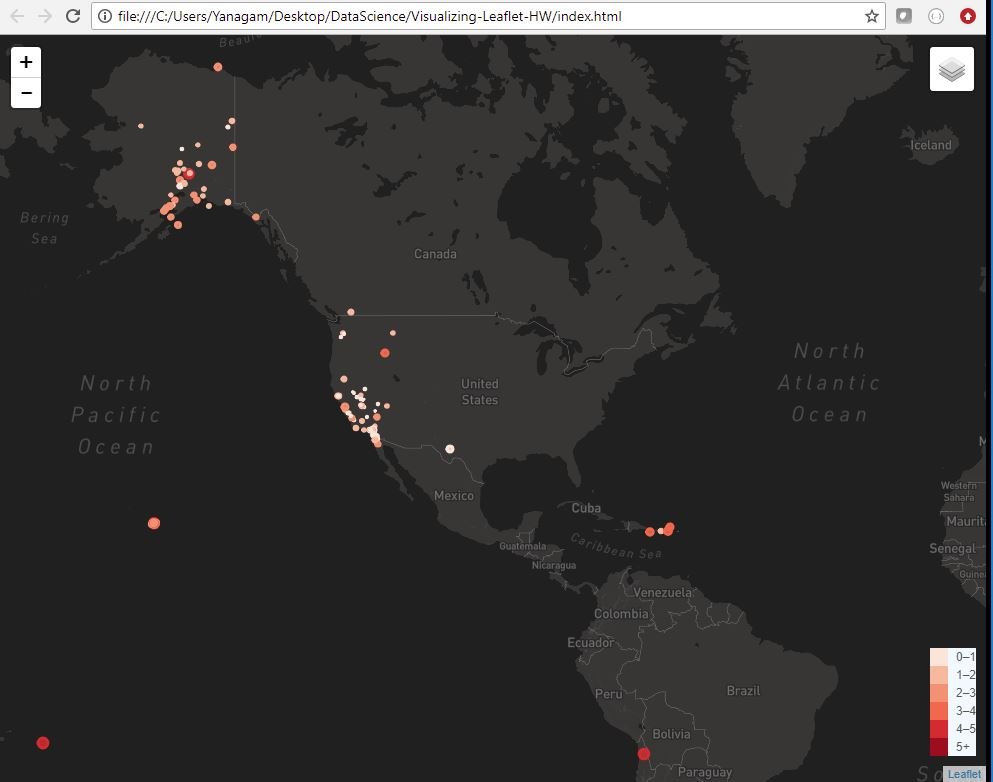
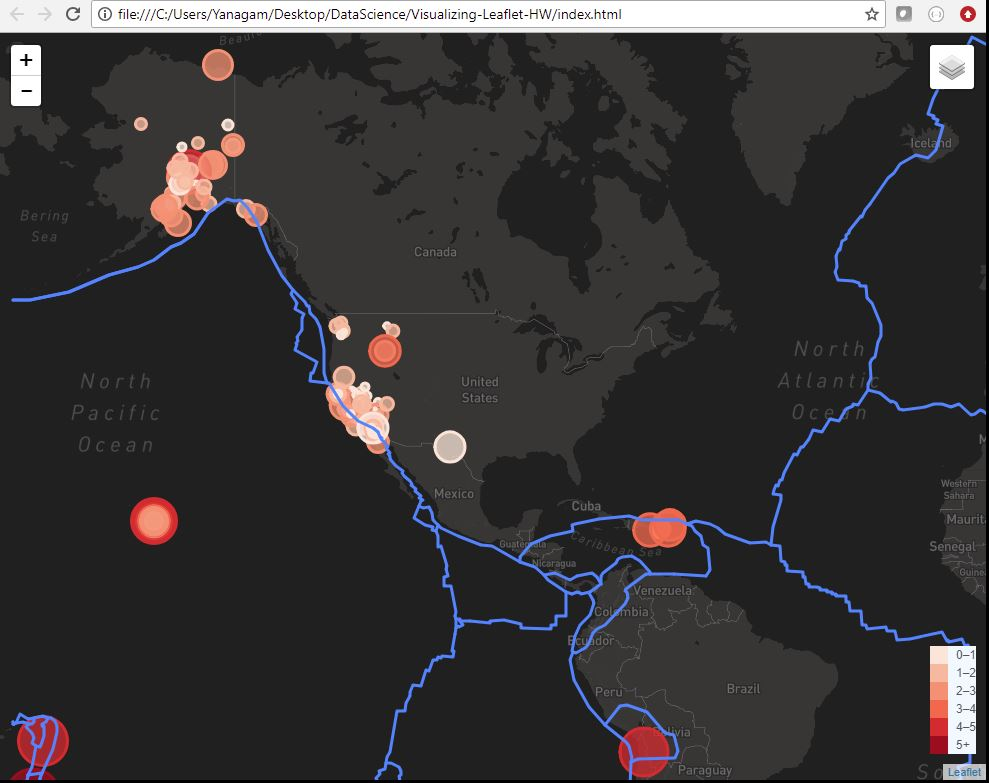
fixed code

diff --git a/logic.js b/logic.js
@@ -1,47 +1,39 @@
-var myMap = null;
-
 // looking at all earthquakes in the past day
 var url = "https://earthquake.usgs.gov/earthquakes/feed/v1.0/summary/all_day.geojson";
 var plateURL = "https://raw.githubusercontent.com/fraxen/tectonicplates/master/GeoJSON/PB2002_boundaries.json";
+
+var earthquakes = [];
+var plates = [];
 
 // perform a GET request to the query URL
 d3.json(url, function(error, quakeData) {
     if(error) console.warn(error);
     // console.log(quakeData.features);
     // send to createFeatures function
-    createFeatures(quakeData.features);
-  });
+    var earthquakeData = (quakeData.features);
+  
 
-// perform a GET request for the plates data
-  d3.json(plateURL, function(error, plateData) {
-    if(error) console.warn(error);
-    // send to createFeatures function
-    createFeatures(plateData.features);
-  });
-
-function createFeatures(earthquakeData, platesData) { 
-
-  // create the first GeoJSON layer
-  var earthquakes = L.geoJSON(earthquakeData, {
+// create the first GeoJSON layer
+earthquakes.push(L.geoJSON(earthquakeData, {
    
   // create the markers based on earthquake magnitude and set their colors
     pointToLayer: function(feature, latlng) {
 
         var customColor = "#fee5d9";
         if (feature.properties.mag >1 && feature.properties.mag <2)
-          customColor = "#fcbba1";
+        customColor = "#fcbba1";
         else if (feature.properties.mag >2 && feature.properties.mag <3)
-          customColor = "#fc9272";
+        customColor = "#fc9272";
         else if (feature.properties.mag >3 && feature.properties.mag <4)
-          customColor = "#fb6a4a";
+        customColor = "#fb6a4a";
         else if(feature.properties.mag >4 && feature.properties.mag <5)
-          customColor = "#de2d26";
+        customColor = "#de2d26";
         else if (feature.properties.mag >5)
-          customColor = "#a50f15";
+        customColor = "#a50f15";
         else
-          customColor = customColor;
+        customColor = customColor;
 
-        return new L.CircleMarker(latlng, {radius: feature.properties.mag, fillOpacity: 0.85, color: customColor});
+        return new L.CircleMarker(latlng, {radius: feature.properties.mag * 5, fillOpacity: .75, color: customColor});
     },
   // add the popup
     onEachFeature: function (feature, layer) {
@@ -49,58 +41,61 @@ function createFeatures(earthquakeData, platesData) {
         "</h3><hr><p align=center>" + feature.properties.mag + " magnitude" + "</p>");
     }
 
-  });
+}));
+var earthquakeLayer = L.layerGroup(earthquakes);
 
-  // create the first GeoJSON layer
-  var plates = L.geoJSON(platesData, {
+// create the plates GeoJSON layer
+
+// perform a GET request for the plates data
+d3.json(plateURL, function(error, plateData) {
+    if(error) console.warn(error);
+    // send to createFeatures function
+    var platesData = (plateData.features)
+  
+plates.push(L.geoJSON(platesData, {
     geometryToLayer: function(feature, coordinates) {
         return new L.polyline(coordinates, {
             color: "blue",
             weight: 3,
             opacity: 0.5,
             smoothFactor: 1
-        })}
-    });
+         })}
+    }));
+var platesLayer = L.layerGroup(plates);
 
-  // send the earthquakes and plates layers to the createMap function
-  createMap(earthquakes, plates);
-};
 
-  
-function createMap(earthquakes, plates) {
-
-  // define map layers
-  var map1 = L.tileLayer("https://api.mapbox.com/styles/v1/myanaga87/cjhj7jihp0unp2ss5caaby7xv/tiles/256/{z}/{x}/{y}?" +
+// define map layers
+var map1 = L.tileLayer("https://api.mapbox.com/styles/v1/myanaga87/cjhj7jihp0unp2ss5caaby7xv/tiles/256/{z}/{x}/{y}?" +
     "access_token=pk.eyJ1IjoibXlhbmFnYTg3IiwiYSI6ImNqaDllNDQ5dTBjMWMzMGxqazAweTdrd3EifQ.vMp4cvHR2uPa3oydja65bg"
-  );
+);
 
-  var darkmap = L.tileLayer("https://api.mapbox.com/styles/v1/mapbox/dark-v9/tiles/256/{z}/{x}/{y}?" +
+var darkmap = L.tileLayer("https://api.mapbox.com/styles/v1/mapbox/dark-v9/tiles/256/{z}/{x}/{y}?" +
     "access_token=pk.eyJ1IjoibXlhbmFnYTg3IiwiYSI6ImNqaDllNDQ5dTBjMWMzMGxqazAweTdrd3EifQ.vMp4cvHR2uPa3oydja65bg"
-  );
+);
 
-  // define a baseMaps object to hold the base layers
-  var baseMaps = {
-    "Map": map1,
+// define a baseMaps object to hold the base layers
+var baseMaps = {
+    "Light Map": map1,
     "Dark Map": darkmap
   };
 
-  // create overlay object to hold the overlay layers
-  var overlayMaps = {
-    "Earthquakes": earthquakes,
-    "Plates": plates,
+// create overlay object to hold the overlay layers
+var overlayMaps = {
+    "Earthquakes": earthquakeLayer,
+    "Plates": platesLayer,
   };
 
-  // create the map
-  var myMap = L.map("map", {
+// create the map
+var myMap = L.map("map", {
     center: [
       37.09, -95.71
     ],
     zoom: 3,
-    layers: [map1, earthquakes, plates]
+    layers: [map1, earthquakeLayer, platesLayer]
   });
 
-  // add the legend 
-  var legend = L.control({position: 'bottomright'});
+// add the legend 
+var legend = L.control({position: 'bottomright'});
 
     legend.onAdd = function (map) {
 
@@ -128,9 +123,10 @@ function createMap(earthquakes, plates) {
 };
   legend.addTo(myMap);
 
-  // create a layer control and add to map
-  L.control.layers(baseMaps, overlayMaps, {
+// create a layer control and add to map
+L.control.layers(baseMaps, overlayMaps, {
     collapsed: false
   }).addTo(myMap);
-}
+});
+});
 
